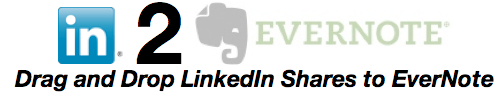
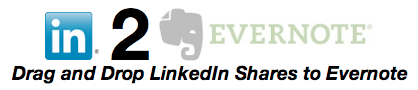
fixed up gradients, css, text with green and Evernote

Changed region(s): [[0.0933, 0.0, 0.9019, 0.6667], [0.0, 0.7111, 0.9952, 0.9333]]

diff --git a/app/views/Application/evernoteindex.html b/app/views/Application/evernoteindex.html
@@ -10,15 +10,15 @@
 <p class="intro-text">
     <img height="40" width="40" src="${myProfile.picture}"/> ${myProfile.firstName} ${myProfile.lastName}<br/>
     You are logged into LinkedIn. <br/>
-    Now connect to EverNote.<br/>
+    Now connect to Evernote.<br/>
 
-Need a <a href="http://sandbox.evernote.com/" target="_blank">SANDBOX evernote account</a>?
+<span class="fine-print">Need a <a href="http://sandbox.evernote.com/" target="_blank">SANDBOX Evernote account</a>?</span>
     <br/><br/>
 
 <form class="intro-text" method="POST" action="/application/evernote">
-    EverNote username: <input type="text" name="username"/><br/>
-    EverNote password: <input type="password" name="password"/><br/>
-    <input type="submit" value="Login to EverNote"/>
+    username: <input type="text" name="username"/><br/>
+    password: <input type="password" name="password"/><br/>
+    <img height="30" src="/public/images/evernote-elephant.jpeg">&nbsp;<input type="submit" value="Sign in"/>
 </form>
 </p>
 </body>

diff --git a/app/views/Application/evernote.html b/app/views/Application/evernote.html
@@ -2,7 +2,7 @@
 <html lang="en">
 <head>
 <meta charset=utf-8 />
-<title>In2EverNote</title>
+<title>In2Evernote</title>
 <link rel="stylesheet" href="/public/stylesheets/html5demos.css" type="text/css" />
 <link rel="stylesheet" href="/public/stylesheets/main.css" type="text/css" />
 <script src="/public/javascripts/jquery-1.4.2.min.js"></script>
@@ -15,7 +15,7 @@
           <span class="two">2</span>
           <img height="45" src="/public/images/evernote_logo2.png" style="vertical-align: bottom">
       </h1>
-      <h2>Drag and Drop LinkedIn Shares to EverNote</h2>
+      <h2>Drag and Drop LinkedIn Shares to Evernote</h2>
     </header>
     <article>
       <div id="bin"></div>

diff --git a/public/stylesheets/main.css b/public/stylesheets/main.css
@@ -6,12 +6,16 @@
     margin: 0 auto;
     padding-top: 0px;
     margin-bottom: 0px;
-    font-weight: bold;
     font-family: Arial;
-    font-size: 16px;
+    font-size: 20px;
     background: none;
     border: none;
 }
+
+.intro-text .fine-print {
+    font-size: 12px;
+}
+
 .centered-img {
     display: block;
     text-align: center;
@@ -39,6 +43,8 @@ li .drag-span {
   text-decoration: none;
   color: #000;
   border: 3px dashed #999;
+  /*border-radius: 25px;*/
+  /*-moz-border-radius: 25px; *//* Firefox 3.6 and earlier */
   background: #eee;
   display: inline-block;
   font-size: 10px;

diff --git a/public/javascripts/shares.js b/public/javascripts/shares.js
@@ -28,7 +28,7 @@ function mainParse(data) {
         var updateKey, firstName, lastName, pictureUrl, title, submittedUrl, thumbnailUrl, comment, headline, memberid;
         updateKey = value.updateKey;
         person = value.updateContent.person;
-        if (person) {
+        if (numShares < 10 && person) {
           firstName = person.firstName;
           lastName = person.lastName;
           pictureUrl = person.pictureUrl;

diff --git a/app/views/Application/index.html b/app/views/Application/index.html
@@ -2,7 +2,7 @@
 <html lang="en">
 <head>
 <meta charset=utf-8 />
-<title>In2EverNote</title>
+<title>In2Evernote</title>
 <link rel="stylesheet" href="/public/stylesheets/main.css" type="text/css" />
 </head>
 <body id="intro">
